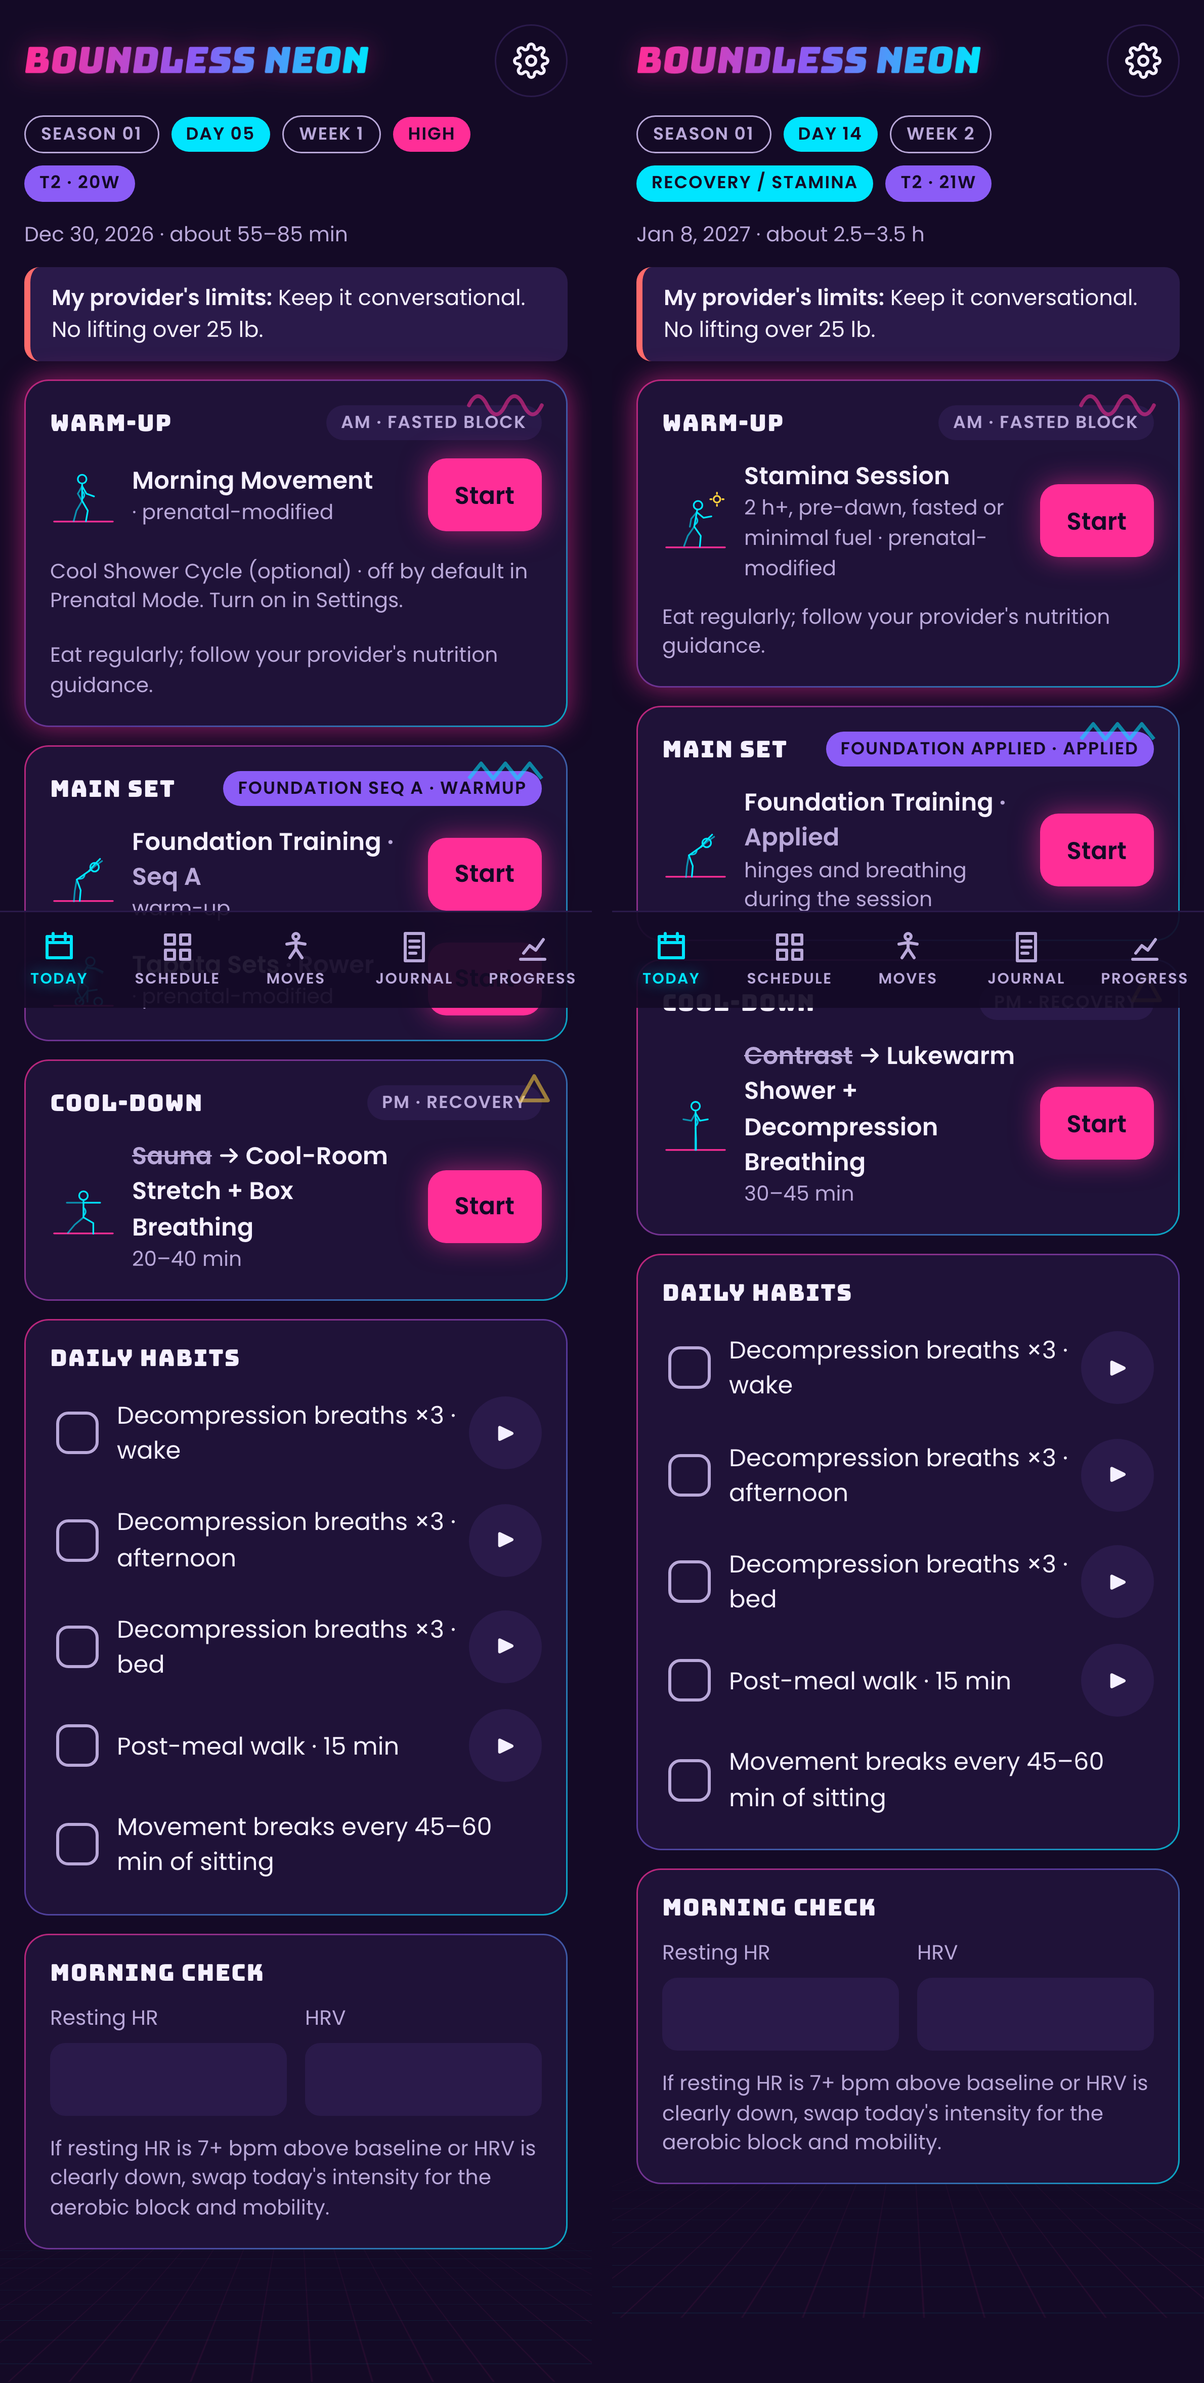
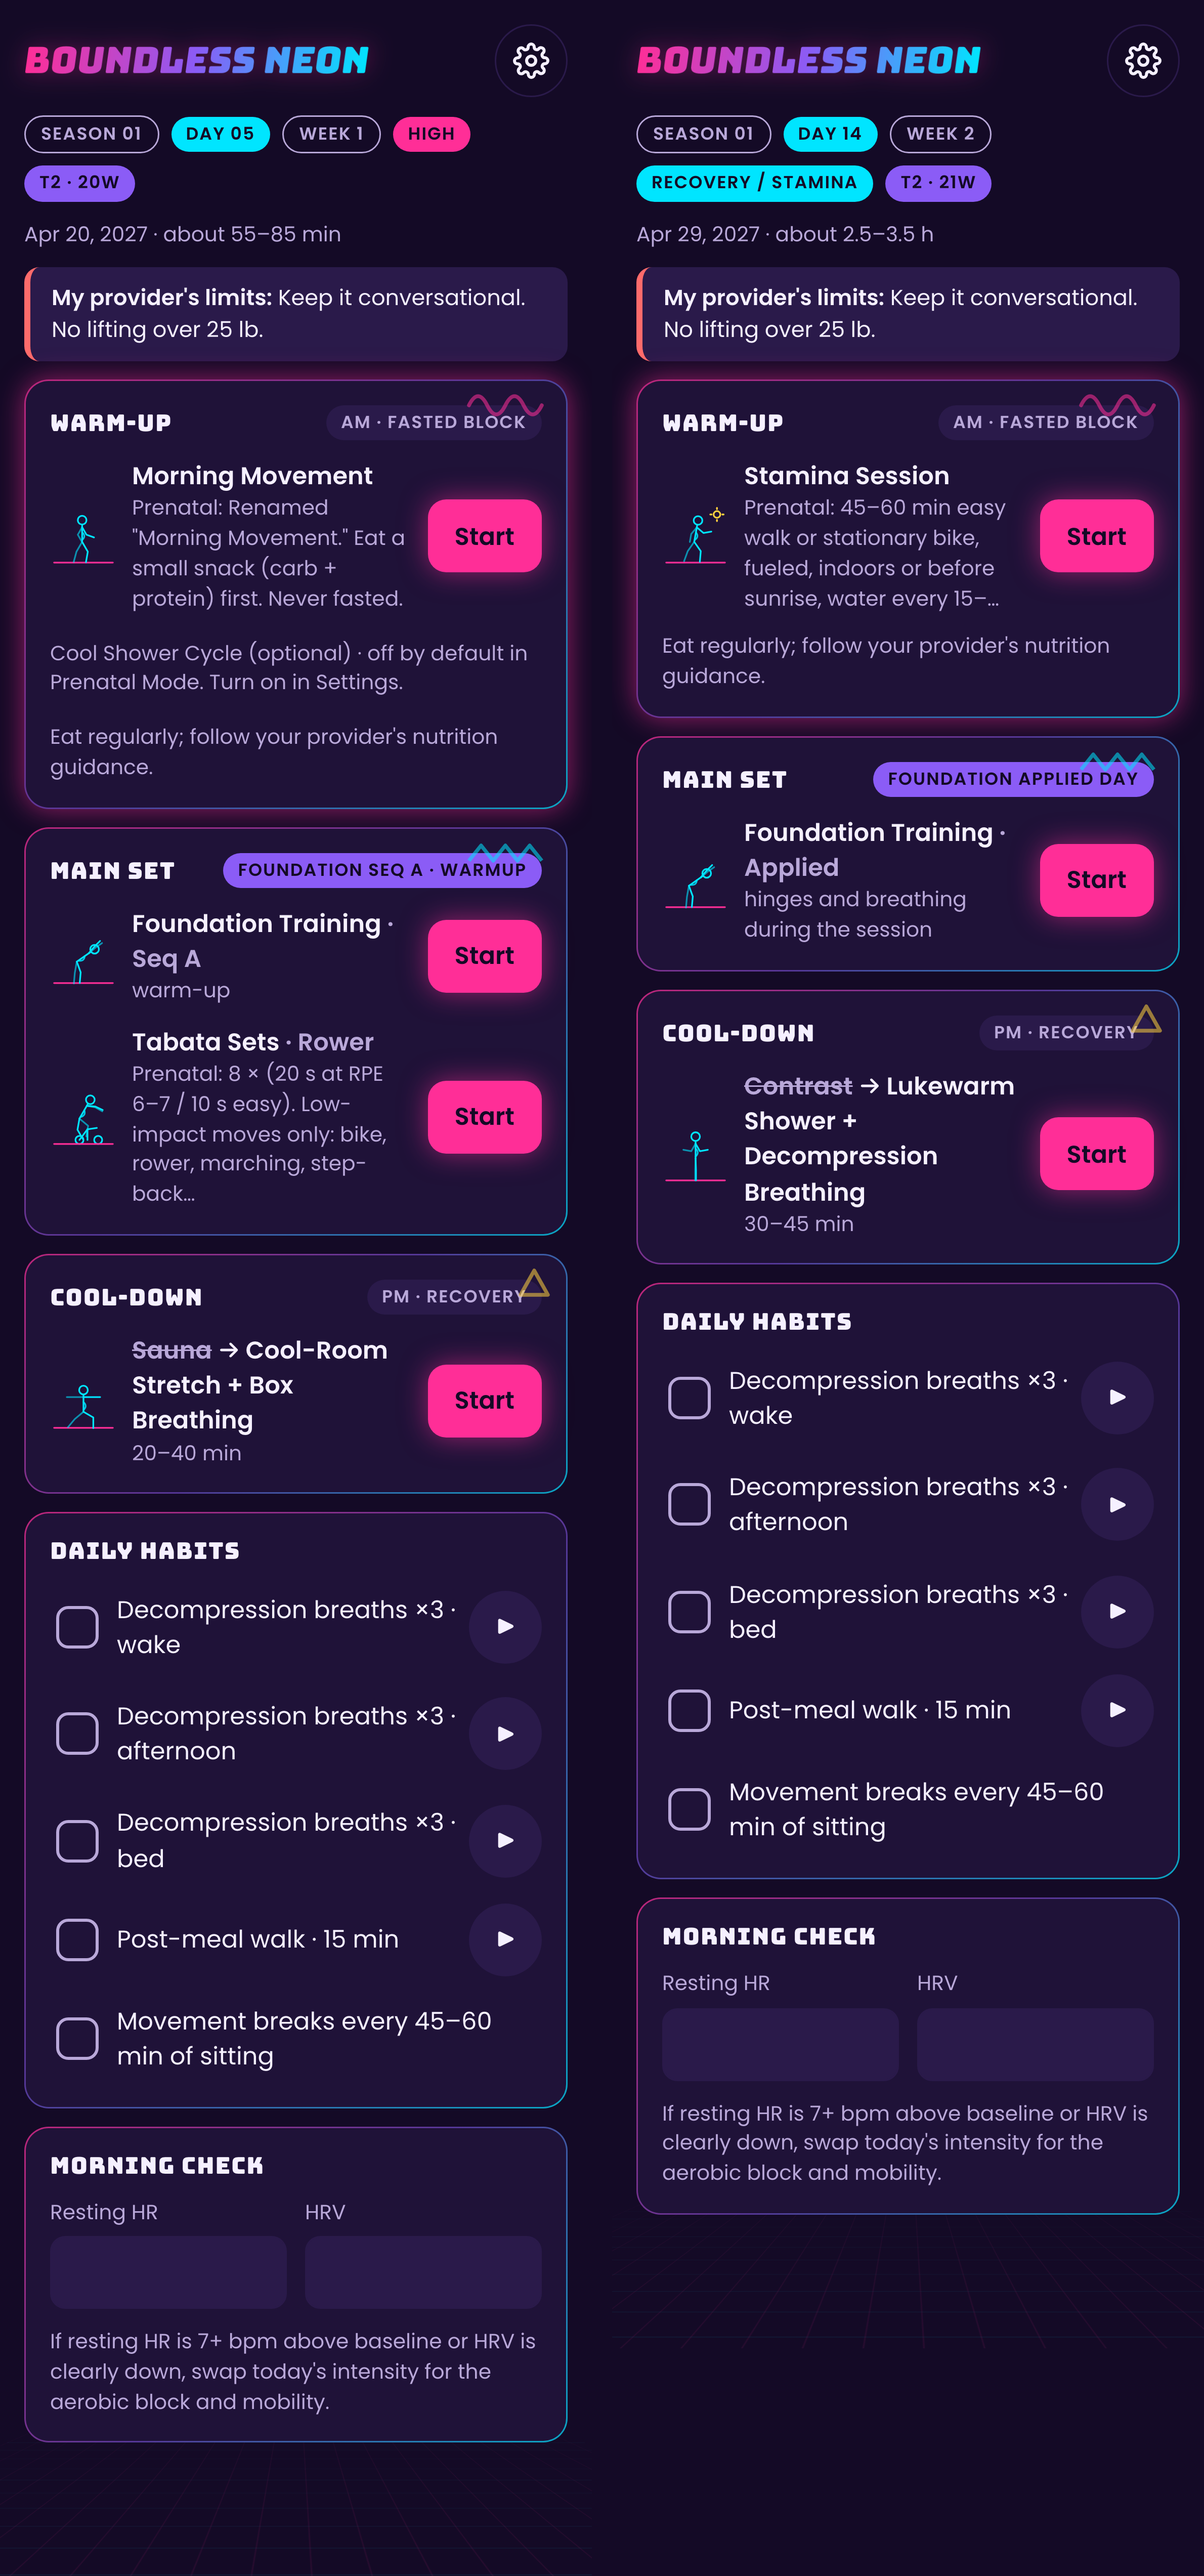
fix(today): prenatal notes on modified rows, applied-day badge; docs screenshots

diff --git a/src/components/SessionRow.tsx b/src/components/SessionRow.tsx
@@ -39,7 +39,7 @@ export function SessionRow({ r, day, slot, compact = false }: { r: SessionRef; d
       {!compact && <Pose id={res.session.drawingId} size={44} />}
       <div class="grow" style="min-width:0">
         <div style="font-weight:600">{res.replaced ? <><s class="muted">{original.short ?? original.name}</s> → </> : null}{name}{variantLabel ? <span class="muted"> · {variantLabel}</span> : null}</div>
-        <div class="muted small">{r.note}{r.optional ? ' · optional' : ''}{res.overrides.length && !res.replaced ? ' · prenatal-modified' : ''}</div>
+        <div class="muted small">{res.overrides.length && !res.replaced ? `Prenatal: ${res.overrides[res.overrides.length - 1]!.replacement.slice(0, 90)}${res.overrides[res.overrides.length - 1]!.replacement.length > 90 ? '…' : ''}` : r.note}{r.optional ? ' · optional' : ''}</div>
       </div>
       <button type="button" class={`btn ${done ? 'btn-lime' : 'btn-primary'}`} data-testid="start-session" onClick={() => navigate(url)} aria-label={`${done ? 'Redo' : 'Start'} ${name}`}>{done ? '✓ Again' : 'Start'}</button>
     </div>

diff --git a/e2e/prenatal.spec.ts b/e2e/prenatal.spec.ts
@@ -70,6 +70,7 @@ test.describe('Prenatal Mode', () => {
     await expect(pm).toHaveAttribute('data-session', 'I');
     await expect(pm).toHaveAttribute('data-ran', 'coolStretch');
     await expect(page.getByTestId('provider-limits')).toBeVisible();
+    await page.addStyleTag({ content: '.tabbar{display:none}' });
     await page.screenshot({ path: 'test-results/walk-w1d5.png', fullPage: true });
     await page.clock.setSystemTime(new Date(`${addDays(today, 13)}T20:00:00Z`));
     await page.reload();
@@ -77,6 +78,7 @@ test.describe('Prenatal Mode', () => {
     const am = page.getByTestId('card-am').getByTestId('session-row').first();
     await expect(am).toHaveAttribute('data-session', 'L');
     await expect(page.getByTestId('card-pm').getByTestId('session-row').first()).toHaveAttribute('data-ran', 'lukewarmShower');
+    await page.addStyleTag({ content: '.tabbar{display:none}' });
     await page.screenshot({ path: 'test-results/walk-w2d7.png', fullPage: true });
     // The stamina session in T2 is capped to 60 min and fueled
     await am.getByTestId('start-session').click();

diff --git a/scripts/shots.ts b/scripts/shots.ts
@@ -10,7 +10,7 @@ await page.screenshot({ path: `${out}/01-first-launch.png`, fullPage: true });
 await page.getByTestId('cleared-btn').click();
 await page.getByTestId('clearance-save').click();
 await page.waitForSelector('[data-testid="start-date-card"]');
-await page.evaluate(async () => { const h = (window as any).__bneon; await h.updateSettings({ dueDate: '2027-05-15', age: 34, providerLimits: 'Keep HR under 150. No lifting over 25 lb.' }); await h.startBlock('2026-09-21'); });
+await page.evaluate(async () => { const h = (window as any).__bneon; await h.updateSettings({ dueDate: '2027-09-03', age: 30, providerLimits: 'Example: keep it conversational.' }); await h.startBlock('2026-09-21'); });
 await page.waitForSelector('[data-testid="today"]');
 await page.screenshot({ path: `${out}/02-today.png`, fullPage: true });
 await page.goto('http://localhost:4173/boundless-neon/#/schedule');

diff --git a/src/screens/Today.tsx b/src/screens/Today.tsx
@@ -101,7 +101,7 @@ export function Today() {
       </section>
       <section class="card stack" data-testid="card-main">
         <Zigzag class="tr" />
-        <div class="row between"><h3>MAIN SET</h3><span class="chip chip-purple" data-testid="foundation-badge">Foundation {fnd} · {day.foundationMode}</span></div>
+        <div class="row between"><h3>MAIN SET</h3><span class="chip chip-purple" data-testid="foundation-badge">Foundation {day.foundation === 'applied' ? 'applied day' : `${fnd} · ${day.foundationMode}`}</span></div>
         {day.main.map((r, i) => <SessionRow key={i} r={r} day={n!} slot="main" />)}
       </section>
       <section class="card stack" data-testid="card-pm">
